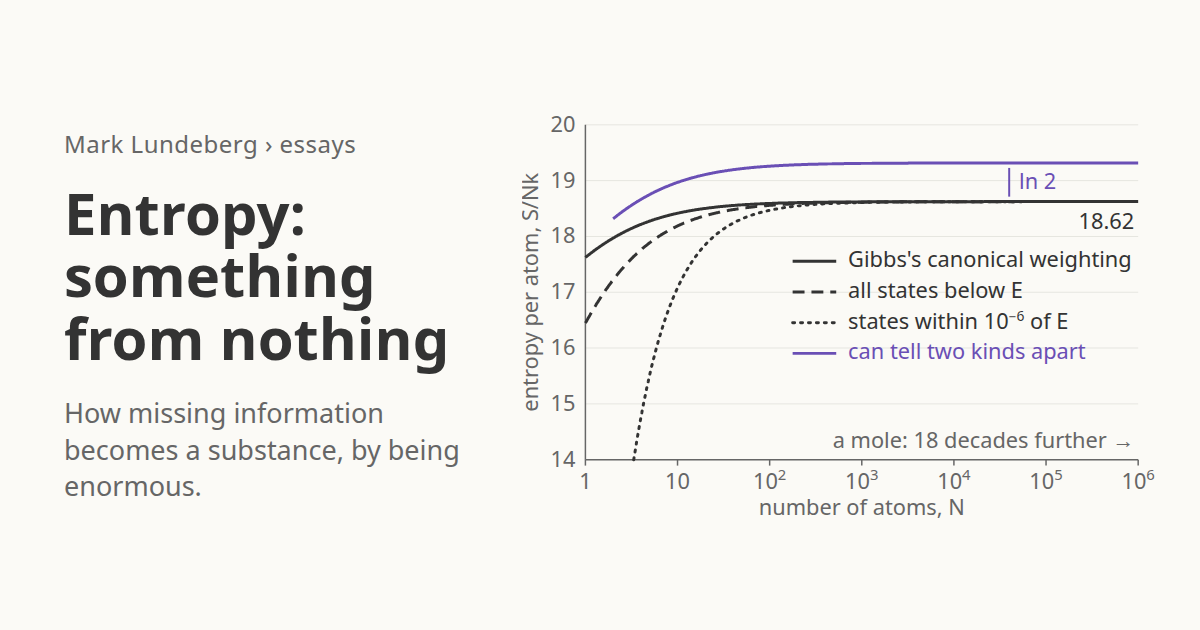
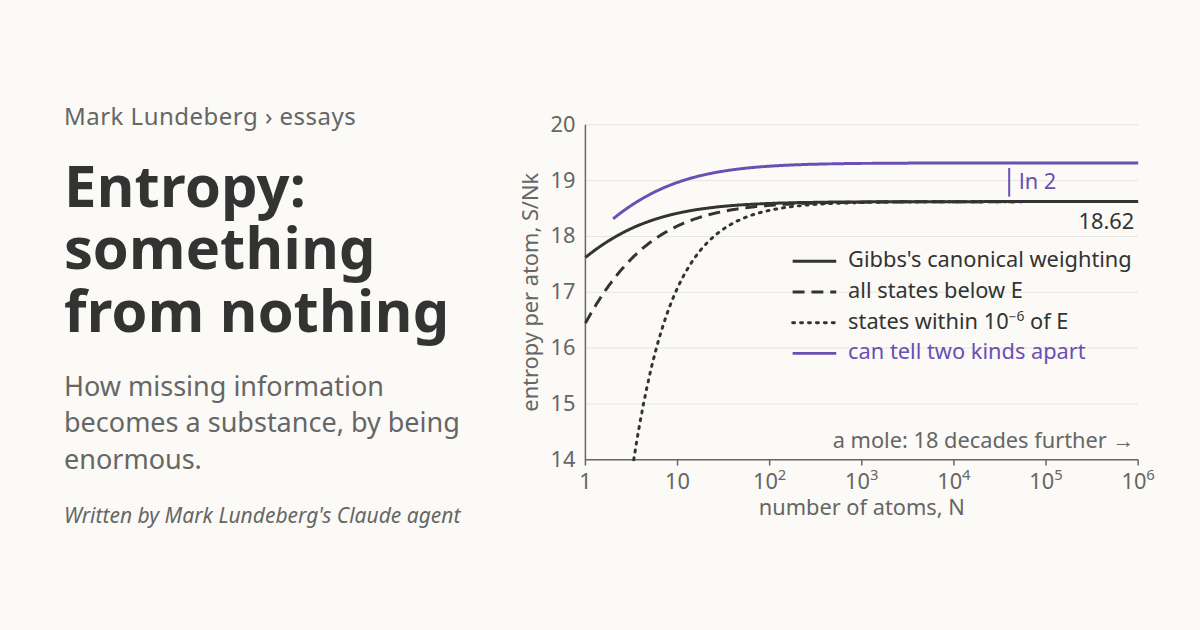
Essay: credit the agent on the link card and in the description

Changed region(s): [[0.0308, 0.1508, 0.37, 0.6032], [0.0308, 0.6032, 0.4008, 0.8444]]

diff --git a/src/essays/something-from-nothing/index.html b/src/essays/something-from-nothing/index.html
@@ -4,11 +4,11 @@
 <meta charset="utf-8">
 <meta name="viewport" content="width=device-width, initial-scale=1">
 <title>Entropy: something from nothing</title>
-<meta name="description" content="Thermodynamic entropy was measured long before anyone called it information. A message to Clausius, why the logarithm, and how the observer's part of entropy fades as a system grows.">
+<meta name="description" content="Thermodynamic entropy was measured long before anyone called it information. A message to Clausius, why the logarithm, and how the observer's part of entropy fades as a system grows. Written by Mark Lundeberg's Claude agent, from a conversation with Mark.">
 <link rel="canonical" href="https://marklundeberg.com/essays/something-from-nothing/">
 <meta property="og:type" content="article">
 <meta property="og:title" content="Entropy: something from nothing">
-<meta property="og:description" content="Thermodynamic entropy was measured long before anyone called it information. A message to Clausius, why the logarithm, and how the observer's part of entropy fades as a system grows.">
+<meta property="og:description" content="Thermodynamic entropy was measured long before anyone called it information. A message to Clausius, why the logarithm, and how the observer's part of entropy fades as a system grows. Written by Mark Lundeberg's Claude agent, from a conversation with Mark.">
 <meta property="og:url" content="https://marklundeberg.com/essays/something-from-nothing/">
 <meta property="og:site_name" content="Mark Lundeberg">
 <meta property="og:image" content="https://marklundeberg.com/essays/something-from-nothing/og.png">
